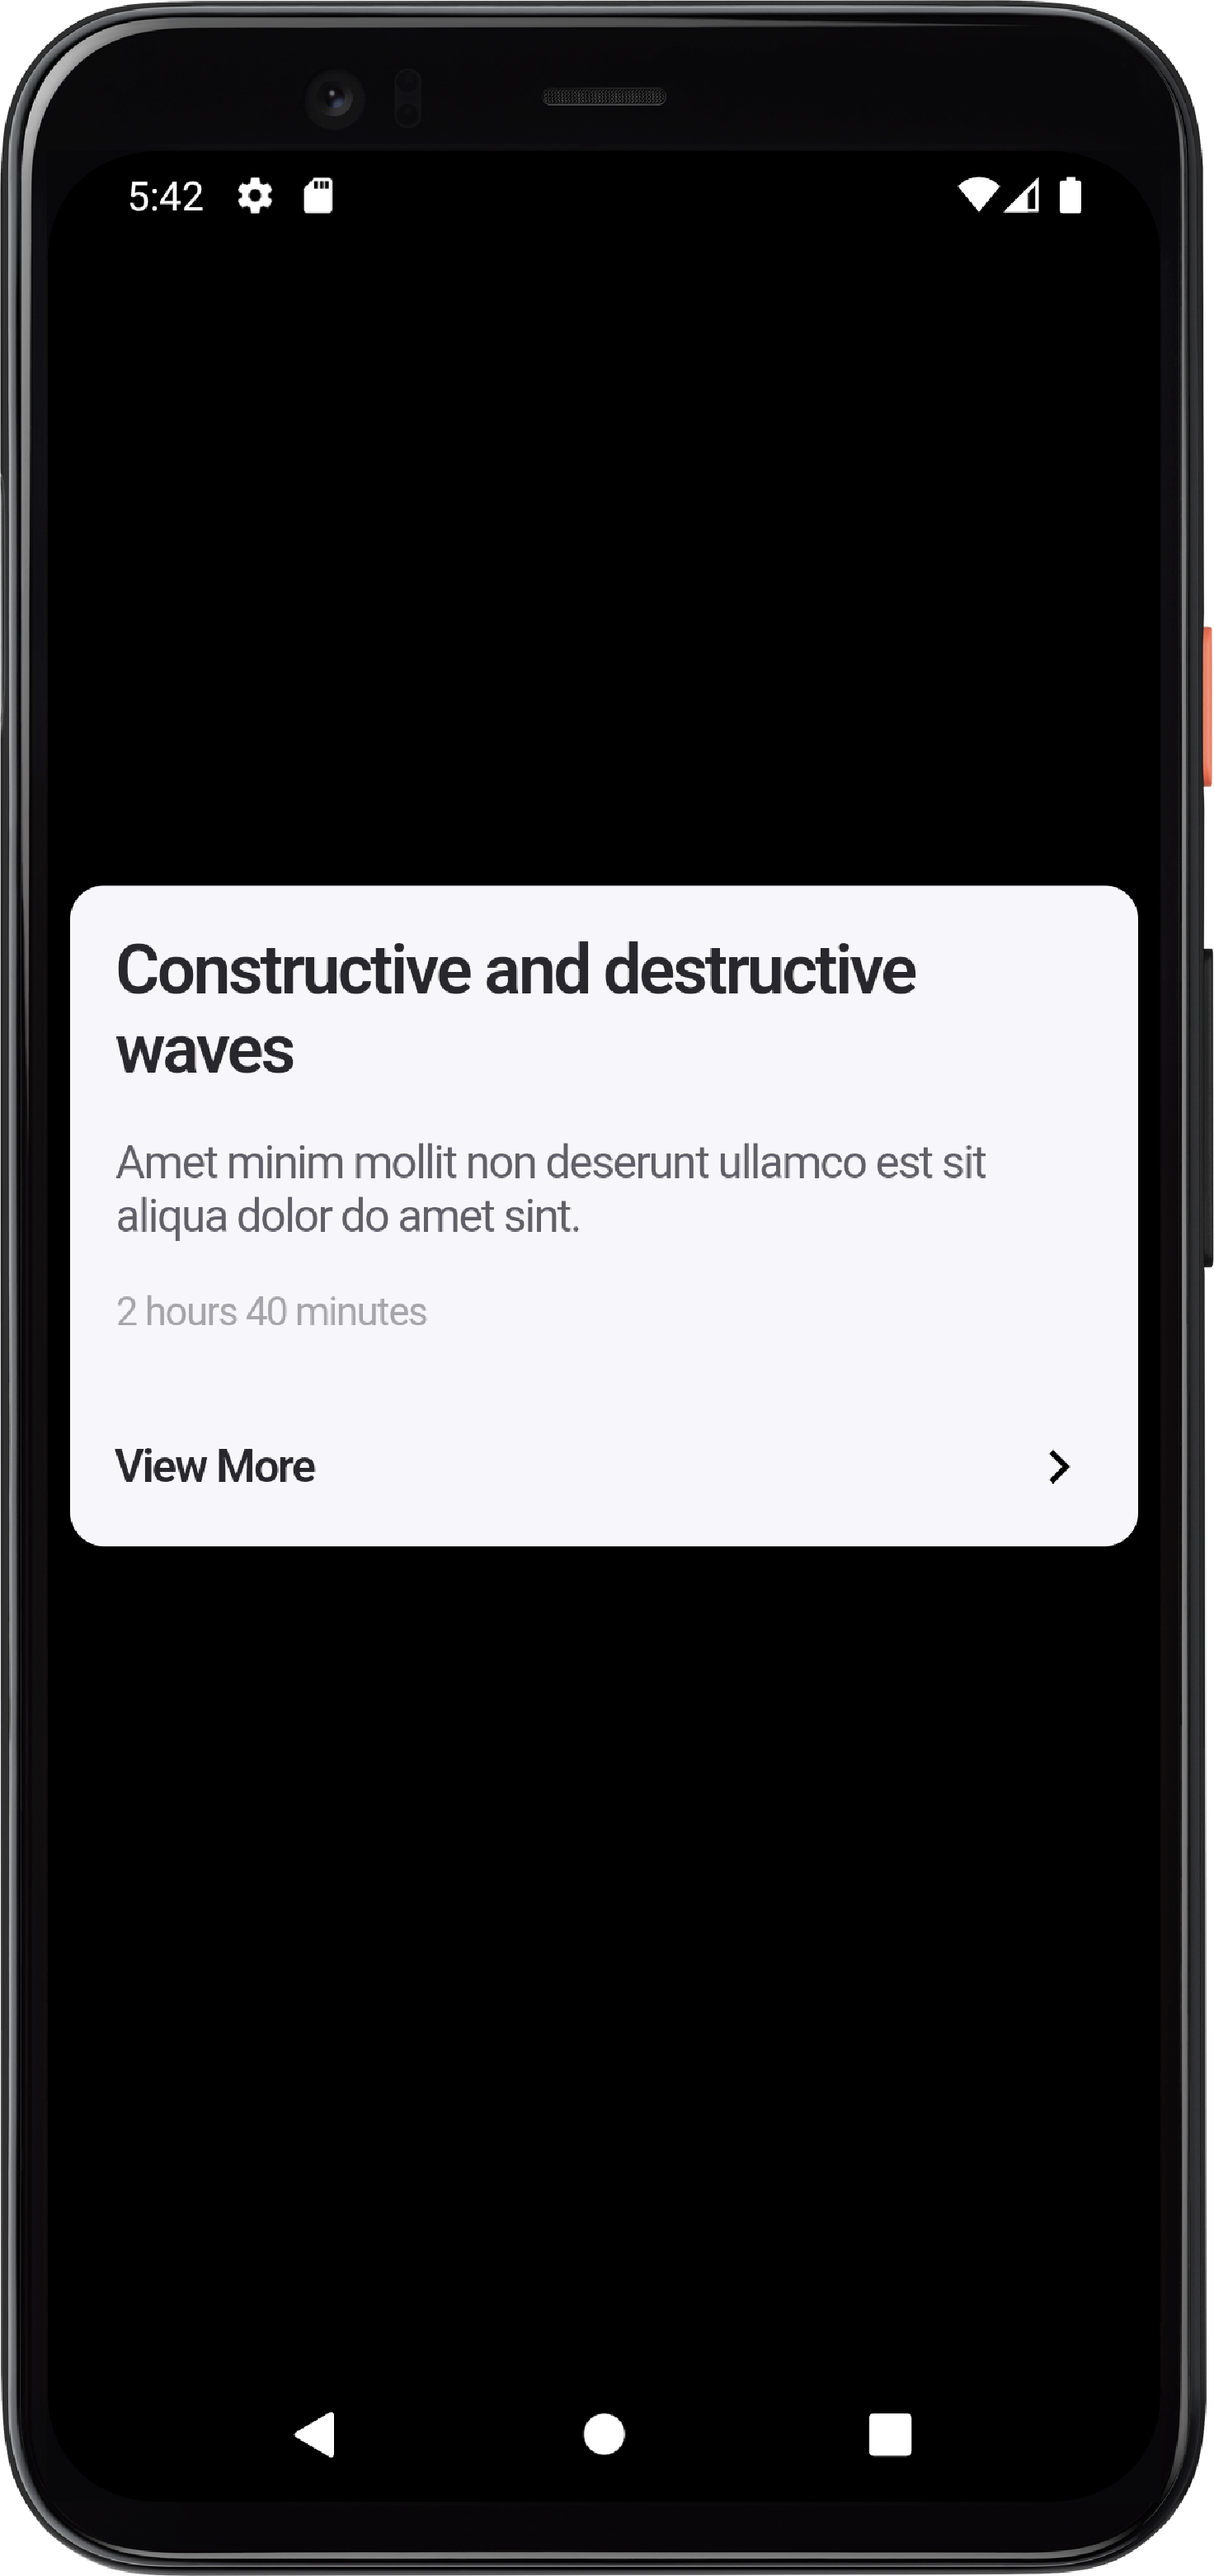
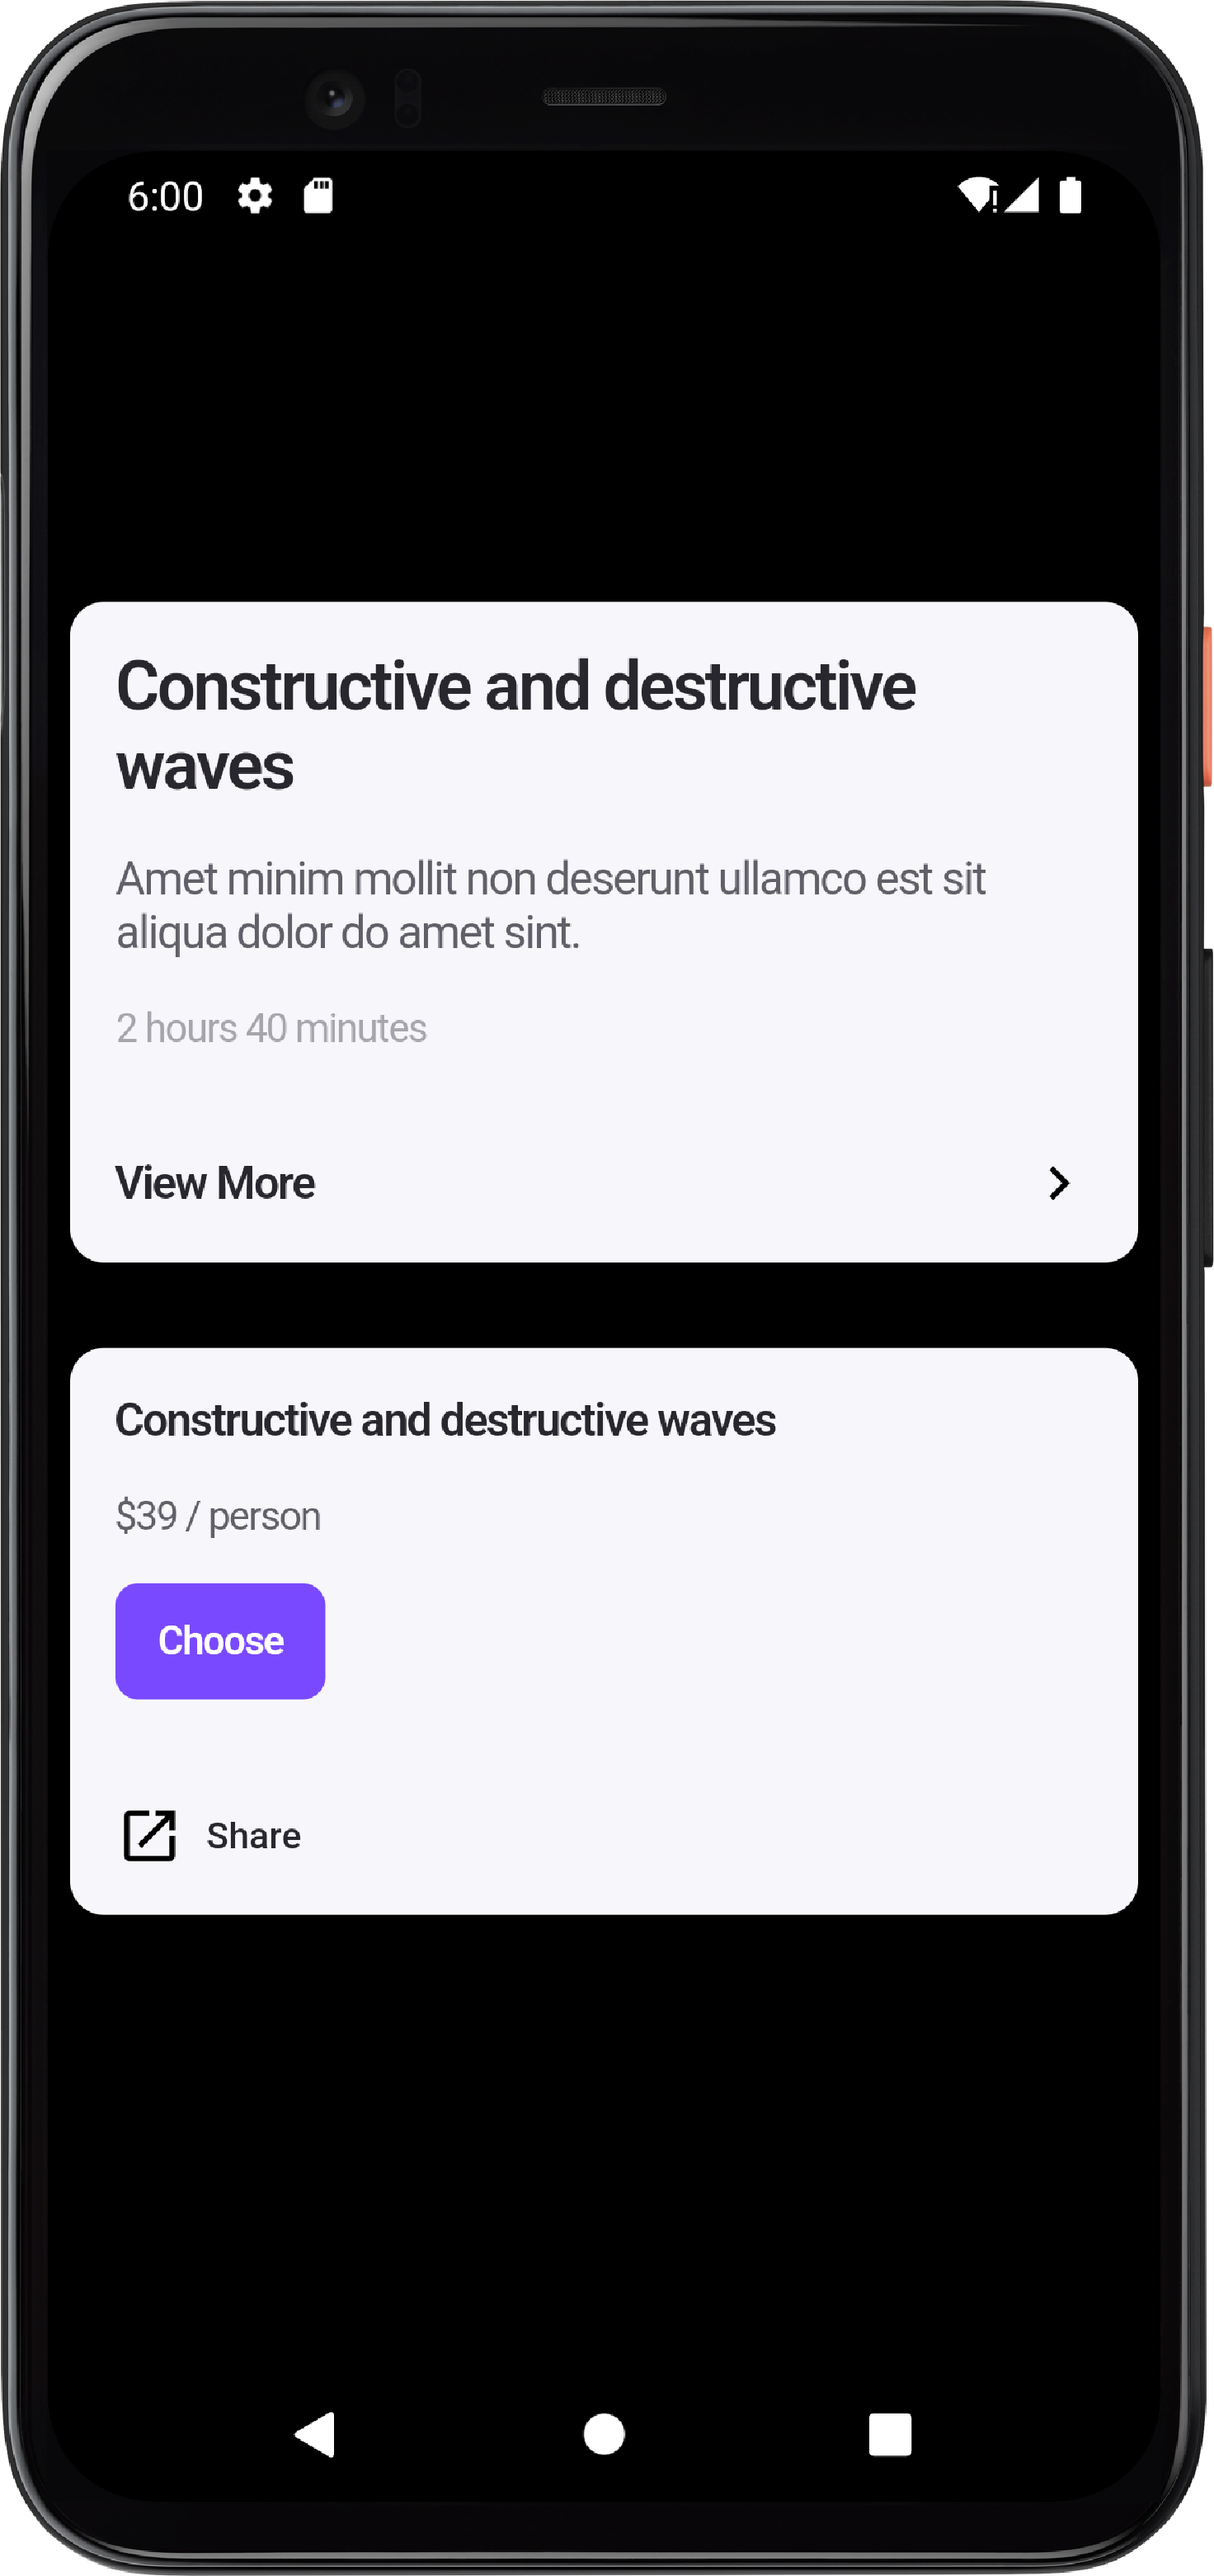
add Card 19

Changed region(s): [[0.0312, 0.2175, 0.9375, 0.7457], [0.125, 0.0621, 0.1562, 0.0932]]

diff --git a/lib/Cards/card_19.dart b/lib/Cards/card_19.dart
@@ -1,0 +1,101 @@
+import 'package:flutter/material.dart';
+import 'package:gap/gap.dart';
+class Card19 extends StatelessWidget {
+  const Card19({Key? key}) : super(key: key);
+
+  @override
+  Widget build(BuildContext context) {
+    return Container(
+      height: 200,
+      width: double.infinity,
+
+      decoration: ShapeDecoration(
+        color:  const Color(0xFFF7F6FA),
+        shape: RoundedRectangleBorder(
+          borderRadius: BorderRadius.circular(12),
+        ),
+      ),
+      child: Column(
+       crossAxisAlignment: CrossAxisAlignment.start,
+        children: [
+        Expanded(
+          child: Container(
+            padding: EdgeInsets.all(16),
+            child: Column(
+              crossAxisAlignment: CrossAxisAlignment.start,
+              children: [
+                Text(
+                  'Constructive and destructive waves',
+                  style: TextStyle(
+                    color: Color(0xFF29272E),
+                    fontSize: 16,
+                    fontFamily: 'Inter',
+                    fontWeight: FontWeight.w600,
+                    height: 0,
+                    letterSpacing: -0.64,
+                  ),
+                ),
+                Gap(16),
+                Text(
+                  '\$39 / person',
+                  style: TextStyle(
+                    color: Color(0xFF615F68),
+                    fontSize: 14,
+                    fontFamily: 'Inter',
+                    fontWeight: FontWeight.w400,
+                    height: 0,
+                    letterSpacing: -0.56,
+                  ),
+                ),
+                Gap(16),
+                Container(
+                  width: 74,
+                  height: 41,
+                  padding: const EdgeInsets.all(12),
+                  decoration: ShapeDecoration(
+                    color: Color(0xFF7949FF),
+                    shape: RoundedRectangleBorder(borderRadius: BorderRadius.circular(8)),
+                  ),
+                  child:Text(
+                    'Choose',
+                    textAlign: TextAlign.center,
+                    style: TextStyle(
+                      color: Colors.white,
+                      fontSize: 14,
+                      fontFamily: 'Inter',
+                      fontWeight: FontWeight.w600,
+                      height: 0,
+                      letterSpacing: -0.56,
+                    ),
+                  ),
+                )
+              ],
+            ),
+          ),
+        ),
+          Container(
+            padding: EdgeInsets.all(16),
+            child:Row(
+              children: [
+                Icon(Icons.launch, color: Colors.black,size: 24,),
+                Gap(8),
+                Text(
+                  'Share',
+                  style: TextStyle(
+                    color: Color(0xFF29272E),
+                    fontSize: 13,
+                    fontFamily: 'Inter',
+                    fontWeight: FontWeight.w500,
+                    height: 0,
+                  ),
+                )
+              ],
+            ) ,
+          )
+
+
+        ],
+      ),
+    );
+  }
+}

diff --git a/lib/Screens/view_7.dart b/lib/Screens/view_7.dart
@@ -1,5 +1,6 @@
 import 'package:flutter/material.dart';
 import 'package:flutter_ui_card_collections/Cards/card_18.dart';
+import 'package:flutter_ui_card_collections/Cards/card_19.dart';
 import 'package:gap/gap.dart';
 class View7 extends StatelessWidget {
   const View7({Key? key}) : super(key: key);
@@ -15,7 +16,7 @@ class View7 extends StatelessWidget {
           children: [
             Card18(),
             Gap(30),
-
+            Card19()
 
           ],
         ),

diff --git a/lib/main.dart b/lib/main.dart
@@ -16,7 +16,7 @@ class App extends StatelessWidget {
   Widget build(BuildContext context) {
     return const MaterialApp(
       debugShowCheckedModeBanner: false, 
-      home: View6(),
+      home: View7(),
     );
   }
 }
